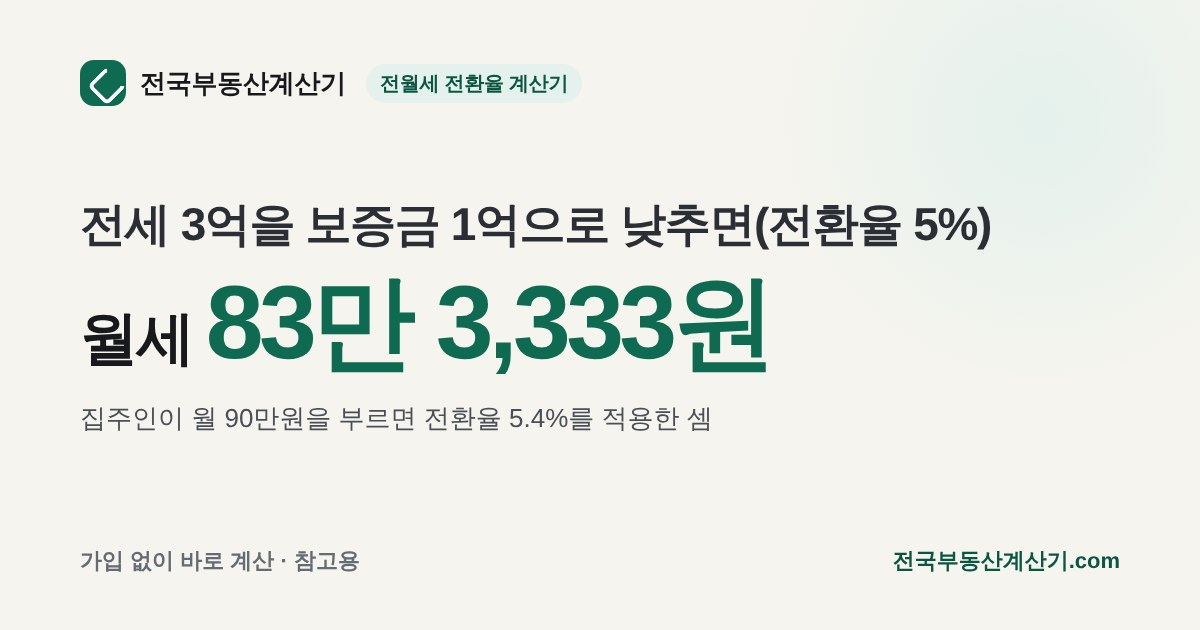
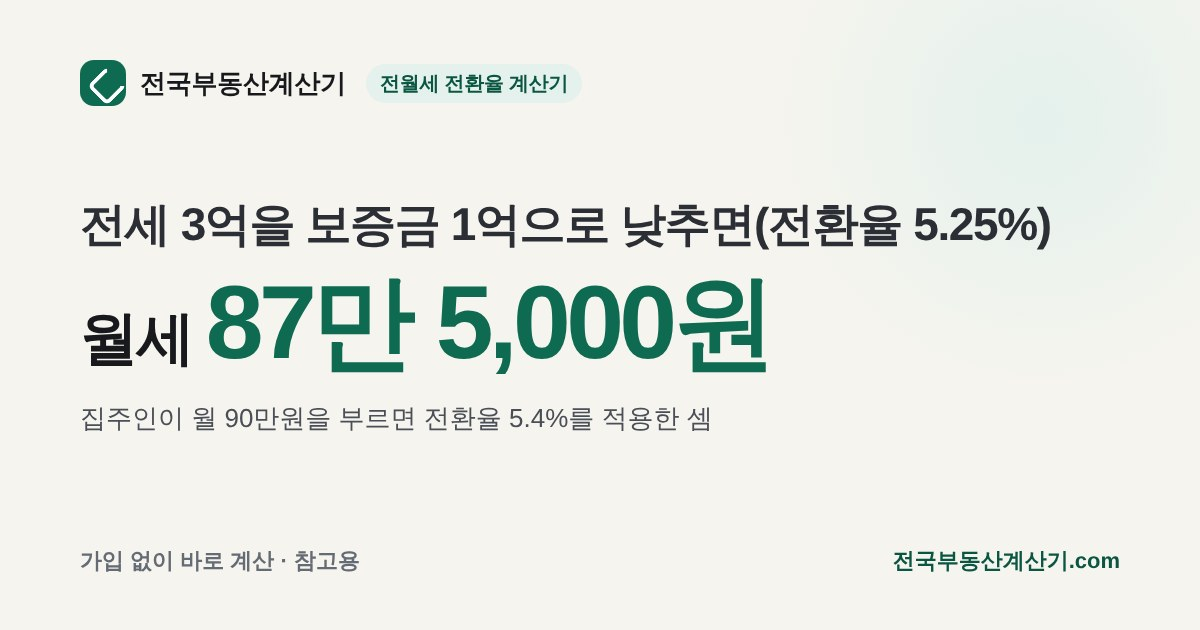
기준금리 3.25% 반영 (2026-11-26 금통위 0.25%p 인상) (#85)
- RATE_HISTORY에 2026-11-26 3.25% 추가, 확인 기준 2026년 11월
- 빌드가 주입하는 곳이 따라 바뀜: 전환율·갱신 계산기 기본값(전환율 상한 5.25%),
  홈 「지금 적용 중인 기준」, 기준금리 이력, 안내 글 3편의 「지금 기준금리」 문장
- 기준금리 글의 전환율 표와 전환율 계산기 공유 카드를 지금 금리에서 계산하도록
  바꿈(site_core.conv_monthly). 고정값이라 옛 금리 기준으로 남아 있었음
- verify: 「기준금리 3%면」으로 적은 용어 예시는 기준금리 칸을 3으로 두고 대조
- CLAUDE.md 금통위 일정 갱신(다음 회의 2027-01-14)

Claude-Session: https://claude.ai/code/session_01TMefYjMG8NRbFFfHiiLdhM

Changed region(s): [[0.37, 0.4524, 0.5858, 0.573], [0.7708, 0.3317, 0.8942, 0.3921], [0.2158, 0.4524, 0.2775, 0.573]]

diff --git a/sw.js b/sw.js
@@ -1,6 +1,6 @@
 /* 전국부동산계산기 서비스 워커: 정적 자산은 캐시 우선, HTML은 네트워크 우선(오프라인 시 캐시) */
-var VERSION = 'jipcalc-30e10ef51c';
-var ASSETS = ["css/site.css?v=1271c1e2", "js/common.js?v=6a725983", "js/analytics.js?v=c8407f74", "js/forms.js?v=59493806", "js/home.js?v=c7629d24", "favicon.svg", "apple-touch-icon.png", "icon-192.png", "icon-512.png", "manifest.json", "js/rent.js?v=8863bc2b", "js/loan.js?v=ff24fef5", "js/yield.js?v=33d61741", "js/fee.js?v=589b4273", "js/area.js?v=78b1a0c5", "js/conversion.js?v=34c85c8d", "js/subscription.js?v=0989644b", "js/rent-tax-credit.js?v=edbace45", "js/dsr.js?v=911198ae", "js/prepayment.js?v=d14f5a96", "js/acquisition-tax.js?v=9f95e47c", "js/capital-gains-tax.js?v=3cf58181", "js/renewal.js?v=3038fa7c", "js/tax-calendar.js?v=f70d9b6a", "js/moving.js?v=396f06dd", "js/rate-compare.js?v=5f1f6692", "js/buy-vs-rent.js?v=e228a501", "js/jeonse-insurance.js?v=74b6a820", "js/jeonse-fraud-check.js?v=381dcd0e", "js/salary.js?v=9aae0658", "js/severance.js?v=5f4bd06e", "js/property-tax.js?v=e8141623", "js/comprehensive-property-tax.js?v=749a724a", "js/gift-tax.js?v=0a729742", "js/inheritance-tax.js?v=4d7dd1e8", "js/jeonse-loan.js?v=4e83a61d", "js/savings.js?v=f8af8e1d", "js/unemployment-benefit.js?v=90e2f8b5", "js/hourly-wage.js?v=fa703e85", "js/year-end-tax.js?v=90585b10", "js/registration-cost.js?v=4cd814cc", "js/pension-tax-credit.js?v=d901305b", "js/parental-leave.js?v=aca1b002", "js/annual-leave.js?v=e7698801", "js/rental-income-tax.js?v=4826b168", "js/income-tax.js?v=b847ecca", "js/land-multiple.js?v=006621bc", "js/land-index-data.js?v=63e87fcd", "js/price-index.js?v=e38c9e86", "js/apartment-multiple.js?v=4472d0bf", "js/apt-index-data.js?v=db486018", "rent.html", "conversion.html", "rent-tax-credit.html", "fee.html", "loan.html", "dsr.html", "prepayment.html", "acquisition-tax.html", "capital-gains-tax.html", "yield.html", "subscription.html", "area.html", "renewal.html", "jeonse-insurance.html", "jeonse-fraud-check.html", "moving.html", "rate-compare.html", "buy-vs-rent.html", "tax-calendar.html", "property-tax.html", "comprehensive-property-tax.html", "gift-tax.html", "salary.html", "severance.html", "inheritance-tax.html", "jeonse-loan.html", "savings.html", "unemployment-benefit.html", "hourly-wage.html", "year-end-tax.html", "registration-cost.html", "pension-tax-credit.html", "parental-leave.html", "annual-leave.html", "rental-income-tax.html", "income-tax.html", "land-multiple.html", "apartment-multiple.html", "checklist.html", "policy.html", "guides.html", "tables.html", "forms.html", "refs.html", "guide-repayment.html", "guide-brokerage.html", "guide-conversion.html", "guide-jeonse-vs-monthly.html", "guide-acquisition-tax.html", "guide-cgt-exemption.html", "guide-subscription-points.html", "guide-dsr-ltv.html", "guide-salary-net.html", "guide-severance.html", "guide-jeonse-registry.html", "guide-renewal-refusal.html", "guide-jeonse-insurance-fail.html", "guide-area-84.html", "guide-rent-tax-credit-who.html", "guide-fixed-vs-variable.html", "guide-loan-rate-structure.html", "guide-officetel.html", "guide-property-tax.html", "guide-prepayment.html", "guide-moving-14days.html", "guide-yield-vacancy.html", "guide-buy-vs-rent.html", "guide-deposit-vs-rent.html", "guide-subscription-notice-date.html", "guide-cgt-heavy.html", "guide-severance-tax.html", "guide-buying-costs.html", "guide-mortgage-limit.html", "guide-cgt-high-price.html", "guide-base-rate-change.html", "guide-deposit-return.html", "guide-renewal-rent-increase.html", "guide-rent-credit-refund.html", "guide-acquisition-6-9.html", "guide-salary-raise.html", "guide-refinance.html", "guide-temporary-two-homes.html", "guide-jeonse-ratio.html", "guide-cgt-filing.html", "guide-jongbuse-threshold.html", "guide-year-end-december.html", "guide-gift-vs-inheritance.html", "guide-savings-real-rate.html", "guide-jeonse-loan-vs-rent.html", "guide-self-registration.html", "guide-annual-leave-pay.html", "guide-minimum-wage-2027.html", "guide-rental-income-two-homes.html", "guide-parental-leave-pay.html", "guide-unemployment-floor.html", "guide-mixed-use-acquisition.html", "guide-renewal-family.html", "guide-year-end-dependents.html", "guide-year-end-result.html", "guide-freelancer-refund.html", "guide-year-end-medical.html", "guide-year-end-job-change.html", "guide-gift-tax-free.html", "guide-jongbuse-payment.html", "guide-apartment-multiple.html", "guide-land-price-lookup.html", "guide-inheritance-threshold.html", "guide-deposit-100m.html", "guide-seoul-apartment-gu.html", "guide-land-index-sido.html", "guide-apartment-vs-land.html", "guide-real-price-multiple.html", "guide-salary-table.html", "guide-subscription-deduction.html", "guide-first-home-acquisition.html", "guide-subscription-first-rank.html", "guide-rent-report.html", "guide-pension-tax-credit.html", "guide-property-tax-table.html", "guide-loan-30-vs-40.html", "guide-annual-leave-days.html", "guide-weekly-holiday-pay.html", "guide-loan-100m-interest.html", "guide-card-deduction.html", "guide-family-loan.html", "guide-jeonse-deemed-rent.html", "guide-severance-table.html", "guide-unemployment-days.html", "guide-hourly-wage-table.html", "guide-year-end-education.html", "guide-income-tax-brackets.html", "guide-loan-interest-by-amount.html", "guide-savings-monthly-table.html", "guide-jeonse-loan-interest.html", "guide-second-home-acquisition.html", "guide-long-term-deduction.html", "guide-gyeonggi-apartment.html", "guide-monthly-to-hourly.html", "guide-deposit-interest-table.html", "guide-credit-loan-mortgage-limit.html", "guide-yield-leverage.html", "guide-one-home-rental-tax.html", "guide-inheritance-spouse.html", "guide-subscription-points-examples.html", "guide-buy-vs-rent-by-price.html", "about.html", "privacy.html", "terms.html", "table-acquisition-tax.html", "table-capital-gains-tax.html", "table-brokerage-fee.html", "table-subscription-points.html", "base-rate-history.html", "form-rent-receipt.html", "form-notice.html", "form-special-terms.html", "glossary.html", "index.html", "404.html"];
+var VERSION = 'jipcalc-87db7142ac';
+var ASSETS = ["css/site.css?v=1271c1e2", "js/common.js?v=6a725983", "js/analytics.js?v=c8407f74", "js/forms.js?v=59493806", "js/home.js?v=c7629d24", "favicon.svg", "apple-touch-icon.png", "icon-192.png", "icon-512.png", "manifest.json", "js/rent.js?v=8863bc2b", "js/loan.js?v=ff24fef5", "js/yield.js?v=33d61741", "js/fee.js?v=589b4273", "js/area.js?v=78b1a0c5", "js/conversion.js?v=ae12cb14", "js/subscription.js?v=0989644b", "js/rent-tax-credit.js?v=edbace45", "js/dsr.js?v=911198ae", "js/prepayment.js?v=d14f5a96", "js/acquisition-tax.js?v=9f95e47c", "js/capital-gains-tax.js?v=3cf58181", "js/renewal.js?v=490cc2ee", "js/tax-calendar.js?v=f70d9b6a", "js/moving.js?v=396f06dd", "js/rate-compare.js?v=5f1f6692", "js/buy-vs-rent.js?v=e228a501", "js/jeonse-insurance.js?v=74b6a820", "js/jeonse-fraud-check.js?v=381dcd0e", "js/salary.js?v=9aae0658", "js/severance.js?v=5f4bd06e", "js/property-tax.js?v=e8141623", "js/comprehensive-property-tax.js?v=749a724a", "js/gift-tax.js?v=0a729742", "js/inheritance-tax.js?v=4d7dd1e8", "js/jeonse-loan.js?v=4e83a61d", "js/savings.js?v=f8af8e1d", "js/unemployment-benefit.js?v=90e2f8b5", "js/hourly-wage.js?v=fa703e85", "js/year-end-tax.js?v=90585b10", "js/registration-cost.js?v=4cd814cc", "js/pension-tax-credit.js?v=d901305b", "js/parental-leave.js?v=aca1b002", "js/annual-leave.js?v=e7698801", "js/rental-income-tax.js?v=4826b168", "js/income-tax.js?v=b847ecca", "js/land-multiple.js?v=006621bc", "js/land-index-data.js?v=63e87fcd", "js/price-index.js?v=e38c9e86", "js/apartment-multiple.js?v=4472d0bf", "js/apt-index-data.js?v=db486018", "rent.html", "conversion.html", "rent-tax-credit.html", "fee.html", "loan.html", "dsr.html", "prepayment.html", "acquisition-tax.html", "capital-gains-tax.html", "yield.html", "subscription.html", "area.html", "renewal.html", "jeonse-insurance.html", "jeonse-fraud-check.html", "moving.html", "rate-compare.html", "buy-vs-rent.html", "tax-calendar.html", "property-tax.html", "comprehensive-property-tax.html", "gift-tax.html", "salary.html", "severance.html", "inheritance-tax.html", "jeonse-loan.html", "savings.html", "unemployment-benefit.html", "hourly-wage.html", "year-end-tax.html", "registration-cost.html", "pension-tax-credit.html", "parental-leave.html", "annual-leave.html", "rental-income-tax.html", "income-tax.html", "land-multiple.html", "apartment-multiple.html", "checklist.html", "policy.html", "guides.html", "tables.html", "forms.html", "refs.html", "guide-repayment.html", "guide-brokerage.html", "guide-conversion.html", "guide-jeonse-vs-monthly.html", "guide-acquisition-tax.html", "guide-cgt-exemption.html", "guide-subscription-points.html", "guide-dsr-ltv.html", "guide-salary-net.html", "guide-severance.html", "guide-jeonse-registry.html", "guide-renewal-refusal.html", "guide-jeonse-insurance-fail.html", "guide-area-84.html", "guide-rent-tax-credit-who.html", "guide-fixed-vs-variable.html", "guide-loan-rate-structure.html", "guide-officetel.html", "guide-property-tax.html", "guide-prepayment.html", "guide-moving-14days.html", "guide-yield-vacancy.html", "guide-buy-vs-rent.html", "guide-deposit-vs-rent.html", "guide-subscription-notice-date.html", "guide-cgt-heavy.html", "guide-severance-tax.html", "guide-buying-costs.html", "guide-mortgage-limit.html", "guide-cgt-high-price.html", "guide-base-rate-change.html", "guide-deposit-return.html", "guide-renewal-rent-increase.html", "guide-rent-credit-refund.html", "guide-acquisition-6-9.html", "guide-salary-raise.html", "guide-refinance.html", "guide-temporary-two-homes.html", "guide-jeonse-ratio.html", "guide-cgt-filing.html", "guide-jongbuse-threshold.html", "guide-year-end-december.html", "guide-gift-vs-inheritance.html", "guide-savings-real-rate.html", "guide-jeonse-loan-vs-rent.html", "guide-self-registration.html", "guide-annual-leave-pay.html", "guide-minimum-wage-2027.html", "guide-rental-income-two-homes.html", "guide-parental-leave-pay.html", "guide-unemployment-floor.html", "guide-mixed-use-acquisition.html", "guide-renewal-family.html", "guide-year-end-dependents.html", "guide-year-end-result.html", "guide-freelancer-refund.html", "guide-year-end-medical.html", "guide-year-end-job-change.html", "guide-gift-tax-free.html", "guide-jongbuse-payment.html", "guide-apartment-multiple.html", "guide-land-price-lookup.html", "guide-inheritance-threshold.html", "guide-deposit-100m.html", "guide-seoul-apartment-gu.html", "guide-land-index-sido.html", "guide-apartment-vs-land.html", "guide-real-price-multiple.html", "guide-salary-table.html", "guide-subscription-deduction.html", "guide-first-home-acquisition.html", "guide-subscription-first-rank.html", "guide-rent-report.html", "guide-pension-tax-credit.html", "guide-property-tax-table.html", "guide-loan-30-vs-40.html", "guide-annual-leave-days.html", "guide-weekly-holiday-pay.html", "guide-loan-100m-interest.html", "guide-card-deduction.html", "guide-family-loan.html", "guide-jeonse-deemed-rent.html", "guide-severance-table.html", "guide-unemployment-days.html", "guide-hourly-wage-table.html", "guide-year-end-education.html", "guide-income-tax-brackets.html", "guide-loan-interest-by-amount.html", "guide-savings-monthly-table.html", "guide-jeonse-loan-interest.html", "guide-second-home-acquisition.html", "guide-long-term-deduction.html", "guide-gyeonggi-apartment.html", "guide-monthly-to-hourly.html", "guide-deposit-interest-table.html", "guide-credit-loan-mortgage-limit.html", "guide-yield-leverage.html", "guide-one-home-rental-tax.html", "guide-inheritance-spouse.html", "guide-subscription-points-examples.html", "guide-buy-vs-rent-by-price.html", "about.html", "privacy.html", "terms.html", "table-acquisition-tax.html", "table-capital-gains-tax.html", "table-brokerage-fee.html", "table-subscription-points.html", "base-rate-history.html", "form-rent-receipt.html", "form-notice.html", "form-special-terms.html", "glossary.html", "index.html", "404.html"];
 self.addEventListener('install', function (e) {
   e.waitUntil(caches.open(VERSION).then(function (c) { return c.addAll(ASSETS.map(function (a) { return new Request(a, { cache: 'reload' }); })).catch(function () {}); }).then(function () { return self.skipWaiting(); }));
 });

diff --git a/base-rate-history.html b/base-rate-history.html
@@ -37,7 +37,7 @@
   "description": "한국은행 기준금리 변동 이력표. 2008년 금융위기 이후 인하, 2021~2023년 인상, 2024~2025년 인하, 2026년 인상까지 결정일별 금리와 변동폭을 정리하고 전월세 전환율과의 관계를 설명합니다.",
   "url": "https://xn--989anm2s84p8on6teba611m.com/base-rate-history.html",
   "inLanguage": "ko-KR",
-  "dateModified": "2026-10-23",
+  "dateModified": "2026-11-28",
   "creator": {
     "@type": "Organization",
     "name": "전국부동산계산기",
@@ -103,14 +103,14 @@
     </section>
 
     <section class="card result-hero">
-      <p class="result-kicker">현재 기준금리 (2026년 10월 확인 기준)</p>
-      <p class="result-big"><span>3.00</span><span class="won">%</span></p>
-      <div class="stat-row"><div class="stat"><p class="k">마지막 변동</p><p class="v"><span>2026-08-27</span></p></div><div class="stat"><p class="k">법정 전월세 전환율</p><p class="v"><span>5.00</span><small>%</small></p></div></div>
-      <p class="result-note">2026년 10월 이후의 금융통화위원회 결정은 <a href="https://www.bok.or.kr" target="_blank" rel="noopener">한국은행</a>에서 확인하세요. 이 표는 확인 시점 이후 자동으로 갱신되지 않습니다.</p>
+      <p class="result-kicker">현재 기준금리 (2026년 11월 확인 기준)</p>
+      <p class="result-big"><span>3.25</span><span class="won">%</span></p>
+      <div class="stat-row"><div class="stat"><p class="k">마지막 변동</p><p class="v"><span>2026-11-26</span></p></div><div class="stat"><p class="k">법정 전월세 전환율</p><p class="v"><span>5.25</span><small>%</small></p></div></div>
+      <p class="result-note">2026년 11월 이후의 금융통화위원회 결정은 <a href="https://www.bok.or.kr" target="_blank" rel="noopener">한국은행</a>에서 확인하세요. 이 표는 확인 시점 이후 자동으로 갱신되지 않습니다.</p>
     </section>
     <section class="card">
       <h2>변동 이력 (최근순)</h2>
-      <div class="table-wrap"><table class="tbl dense nowrap-head"><thead><tr><th scope="col">결정일</th><th scope="col">기준금리</th><th scope="col">변동</th><th scope="col">법정 전환율 (기준금리+2%p)</th></tr></thead><tbody><tr><th scope="row">2026-08-27</th><td>3.00%</td><td>+0.25%p</td><td>5.00%</td></tr><tr><th scope="row">2026-07-16</th><td>2.75%</td><td>+0.25%p</td><td>4.75%</td></tr><tr><th scope="row">2025-05-29</th><td>2.50%</td><td>-0.25%p</td><td>4.50%</td></tr><tr><th scope="row">2025-02-25</th><td>2.75%</td><td>-0.25%p</td><td>4.75%</td></tr><tr><th scope="row">2024-11-28</th><td>3.00%</td><td>-0.25%p</td><td>5.00%</td></tr><tr><th scope="row">2024-10-11</th><td>3.25%</td><td>-0.25%p</td><td>5.25%</td></tr><tr><th scope="row">2023-01-13</th><td>3.50%</td><td>+0.25%p</td><td>5.50%</td></tr><tr><th scope="row">2022-11-24</th><td>3.25%</td><td>+0.25%p</td><td>5.25%</td></tr><tr><th scope="row">2022-10-12</th><td>3.00%</td><td>+0.50%p</td><td>5.00%</td></tr><tr><th scope="row">2022-08-25</th><td>2.50%</td><td>+0.25%p</td><td>4.50%</td></tr><tr><th scope="row">2022-07-13</th><td>2.25%</td><td>+0.50%p</td><td>4.25%</td></tr><tr><th scope="row">2022-05-26</th><td>1.75%</td><td>+0.25%p</td><td>3.75%</td></tr><tr><th scope="row">2022-04-14</th><td>1.50%</td><td>+0.25%p</td><td>3.50%</td></tr><tr><th scope="row">2022-01-14</th><td>1.25%</td><td>+0.25%p</td><td>3.25%</td></tr><tr><th scope="row">2021-11-25</th><td>1.00%</td><td>+0.25%p</td><td>3.00%</td></tr><tr><th scope="row">2021-08-26</th><td>0.75%</td><td>+0.25%p</td><td>2.75%</td></tr><tr><th scope="row">2020-05-28</th><td>0.50%</td><td>-0.25%p</td><td>2.50%</td></tr><tr><th scope="row">2020-03-17</th><td>0.75%</td><td>-0.50%p</td><td>2.75%</td></tr><tr><th scope="row">2019-10-16</th><td>1.25%</td><td>-0.25%p</td><td>3.25%</td></tr><tr><th scope="row">2019-07-18</th><td>1.50%</td><td>-0.25%p</td><td>3.50%</td></tr><tr><th scope="row">2018-11-30</th><td>1.75%</td><td>+0.25%p</td><td>3.75%</td></tr><tr><th scope="row">2017-11-30</th><td>1.50%</td><td>+0.25%p</td><td>3.50%</td></tr><tr><th scope="row">2016-06-09</th><td>1.25%</td><td>-0.25%p</td><td>3.25%</td></tr><tr><th scope="row">2015-06-11</th><td>1.50%</td><td>-0.25%p</td><td>3.50%</td></tr><tr><th scope="row">2015-03-12</th><td>1.75%</td><td>-0.25%p</td><td>3.75%</td></tr><tr><th scope="row">2014-10-15</th><td>2.00%</td><td>-0.25%p</td><td>4.00%</td></tr><tr><th scope="row">2014-08-14</th><td>2.25%</td><td>-0.25%p</td><td>4.25%</td></tr><tr><th scope="row">2013-05-09</th><td>2.50%</td><td>-0.25%p</td><td>4.50%</td></tr><tr><th scope="row">2012-10-11</th><td>2.75%</td><td>-0.25%p</td><td>4.75%</td></tr><tr><th scope="row">2012-07-12</th><td>3.00%</td><td>-0.25%p</td><td>5.00%</td></tr><tr><th scope="row">2011-06-10</th><td>3.25%</td><td>+0.25%p</td><td>5.25%</td></tr><tr><th scope="row">2011-03-10</th><td>3.00%</td><td>+0.25%p</td><td>5.00%</td></tr><tr><th scope="row">2011-01-13</th><td>2.75%</td><td>+0.25%p</td><td>4.75%</td></tr><tr><th scope="row">2010-11-16</th><td>2.50%</td><td>+0.25%p</td><td>4.50%</td></tr><tr><th scope="row">2010-07-09</th><td>2.25%</td><td>+0.25%p</td><td>4.25%</td></tr><tr><th scope="row">2009-02-12</th><td>2.00%</td><td>-0.50%p</td><td>4.00%</td></tr><tr><th scope="row">2009-01-09</th><td>2.50%</td><td>-0.50%p</td><td>4.50%</td></tr><tr><th scope="row">2008-12-11</th><td>3.00%</td><td>-1.00%p</td><td>5.00%</td></tr><tr><th scope="row">2008-11-07</th><td>4.00%</td><td>-0.25%p</td><td>6.00%</td></tr><tr><th scope="row">2008-10-27</th><td>4.25%</td><td>-0.75%p</td><td>6.25%</td></tr><tr><th scope="row">2008-10-09</th><td>5.00%</td><td>-0.25%p</td><td>7.00%</td></tr></tbody></table></div>
+      <div class="table-wrap"><table class="tbl dense nowrap-head"><thead><tr><th scope="col">결정일</th><th scope="col">기준금리</th><th scope="col">변동</th><th scope="col">법정 전환율 (기준금리+2%p)</th></tr></thead><tbody><tr><th scope="row">2026-11-26</th><td>3.25%</td><td>+0.25%p</td><td>5.25%</td></tr><tr><th scope="row">2026-08-27</th><td>3.00%</td><td>+0.25%p</td><td>5.00%</td></tr><tr><th scope="row">2026-07-16</th><td>2.75%</td><td>+0.25%p</td><td>4.75%</td></tr><tr><th scope="row">2025-05-29</th><td>2.50%</td><td>-0.25%p</td><td>4.50%</td></tr><tr><th scope="row">2025-02-25</th><td>2.75%</td><td>-0.25%p</td><td>4.75%</td></tr><tr><th scope="row">2024-11-28</th><td>3.00%</td><td>-0.25%p</td><td>5.00%</td></tr><tr><th scope="row">2024-10-11</th><td>3.25%</td><td>-0.25%p</td><td>5.25%</td></tr><tr><th scope="row">2023-01-13</th><td>3.50%</td><td>+0.25%p</td><td>5.50%</td></tr><tr><th scope="row">2022-11-24</th><td>3.25%</td><td>+0.25%p</td><td>5.25%</td></tr><tr><th scope="row">2022-10-12</th><td>3.00%</td><td>+0.50%p</td><td>5.00%</td></tr><tr><th scope="row">2022-08-25</th><td>2.50%</td><td>+0.25%p</td><td>4.50%</td></tr><tr><th scope="row">2022-07-13</th><td>2.25%</td><td>+0.50%p</td><td>4.25%</td></tr><tr><th scope="row">2022-05-26</th><td>1.75%</td><td>+0.25%p</td><td>3.75%</td></tr><tr><th scope="row">2022-04-14</th><td>1.50%</td><td>+0.25%p</td><td>3.50%</td></tr><tr><th scope="row">2022-01-14</th><td>1.25%</td><td>+0.25%p</td><td>3.25%</td></tr><tr><th scope="row">2021-11-25</th><td>1.00%</td><td>+0.25%p</td><td>3.00%</td></tr><tr><th scope="row">2021-08-26</th><td>0.75%</td><td>+0.25%p</td><td>2.75%</td></tr><tr><th scope="row">2020-05-28</th><td>0.50%</td><td>-0.25%p</td><td>2.50%</td></tr><tr><th scope="row">2020-03-17</th><td>0.75%</td><td>-0.50%p</td><td>2.75%</td></tr><tr><th scope="row">2019-10-16</th><td>1.25%</td><td>-0.25%p</td><td>3.25%</td></tr><tr><th scope="row">2019-07-18</th><td>1.50%</td><td>-0.25%p</td><td>3.50%</td></tr><tr><th scope="row">2018-11-30</th><td>1.75%</td><td>+0.25%p</td><td>3.75%</td></tr><tr><th scope="row">2017-11-30</th><td>1.50%</td><td>+0.25%p</td><td>3.50%</td></tr><tr><th scope="row">2016-06-09</th><td>1.25%</td><td>-0.25%p</td><td>3.25%</td></tr><tr><th scope="row">2015-06-11</th><td>1.50%</td><td>-0.25%p</td><td>3.50%</td></tr><tr><th scope="row">2015-03-12</th><td>1.75%</td><td>-0.25%p</td><td>3.75%</td></tr><tr><th scope="row">2014-10-15</th><td>2.00%</td><td>-0.25%p</td><td>4.00%</td></tr><tr><th scope="row">2014-08-14</th><td>2.25%</td><td>-0.25%p</td><td>4.25%</td></tr><tr><th scope="row">2013-05-09</th><td>2.50%</td><td>-0.25%p</td><td>4.50%</td></tr><tr><th scope="row">2012-10-11</th><td>2.75%</td><td>-0.25%p</td><td>4.75%</td></tr><tr><th scope="row">2012-07-12</th><td>3.00%</td><td>-0.25%p</td><td>5.00%</td></tr><tr><th scope="row">2011-06-10</th><td>3.25%</td><td>+0.25%p</td><td>5.25%</td></tr><tr><th scope="row">2011-03-10</th><td>3.00%</td><td>+0.25%p</td><td>5.00%</td></tr><tr><th scope="row">2011-01-13</th><td>2.75%</td><td>+0.25%p</td><td>4.75%</td></tr><tr><th scope="row">2010-11-16</th><td>2.50%</td><td>+0.25%p</td><td>4.50%</td></tr><tr><th scope="row">2010-07-09</th><td>2.25%</td><td>+0.25%p</td><td>4.25%</td></tr><tr><th scope="row">2009-02-12</th><td>2.00%</td><td>-0.50%p</td><td>4.00%</td></tr><tr><th scope="row">2009-01-09</th><td>2.50%</td><td>-0.50%p</td><td>4.50%</td></tr><tr><th scope="row">2008-12-11</th><td>3.00%</td><td>-1.00%p</td><td>5.00%</td></tr><tr><th scope="row">2008-11-07</th><td>4.00%</td><td>-0.25%p</td><td>6.00%</td></tr><tr><th scope="row">2008-10-27</th><td>4.25%</td><td>-0.75%p</td><td>6.25%</td></tr><tr><th scope="row">2008-10-09</th><td>5.00%</td><td>-0.25%p</td><td>7.00%</td></tr></tbody></table></div>
       <p class="result-note">2008년 3월 기준금리 제도 개편 이후. 동결 결정은 표시하지 않았습니다.</p>
     </section>
     <section class="card">

diff --git a/guide-base-rate-change.html b/guide-base-rate-change.html
@@ -37,7 +37,7 @@
   "description": "기준금리가 0.25%p 움직이면 3억원 30년 대출의 월 상환액은 약 4만 3천원, 대출 한도는 약 700만원대, 2억원 전월세 전환 월세 상한은 4만 1,667원씩 달라집니다. 대출금리가 바로 바뀌지 않는 이유와 함께 계산기로 정리했습니다.",
   "url": "https://xn--989anm2s84p8on6teba611m.com/guide-base-rate-change.html",
   "datePublished": "2026-10-21",
-  "dateModified": "2026-10-23",
+  "dateModified": "2026-11-28",
   "inLanguage": "ko-KR",
   "author": {
     "@type": "Organization",
@@ -104,8 +104,8 @@
       <section class="hero">
         <div class="hero-top"><nav class="crumbs" aria-label="현재 위치"><a href="index.html">홈</a><span class="sep" aria-hidden="true">›</span><a href="guides.html">안내 글</a><span class="sep" aria-hidden="true">›</span><a href="guides.html#t-loan">대출</a></nav></div>
         <h1>기준금리 0.25%p, 내 대출 이자는 얼마나 바뀌나</h1>
-        <p class="lead">기준금리 3.00%에서 0.25%포인트가 움직일 때 내 대출 월 상환액, 대출 한도, 전월세 전환율 상한이 얼마씩 바뀌는지 계산기로 확인합니다.</p>
-        <p class="meta">전국부동산계산기 · 2026.10.21 · 수정 2026.10.23 · 참고용 설명이며 금융·세무·법률 자문이 아닙니다</p>
+        <p class="lead">기준금리 3.25%에서 0.25%포인트가 움직일 때 내 대출 월 상환액, 대출 한도, 전월세 전환율 상한이 얼마씩 바뀌는지 계산기로 확인합니다.</p>
+        <p class="meta">전국부동산계산기 · 2026.10.21 · 수정 2026.11.28 · 참고용 설명이며 금융·세무·법률 자문이 아닙니다</p>
       </section>
       <section class="keynums" aria-label="핵심 숫자"><div class="kn-grid"><div class="kn"><p class="v">약 4만 3천원</p><p class="k">3억원 · 30년 · 4%에서 0.25%p당 월 상환액</p></div><div class="kn"><p class="v">1,500만원</p><p class="k">0.25%p가 바꾸는 30년 총이자(넘음)</p></div><div class="kn"><p class="v">143만 2,246원</p><p class="k">3억원 · 연 4% · 30년 월 상환액</p></div></div>
         <a class="kn-cta" href="loan.html">대출이자 계산기 열기 →</a>
@@ -116,7 +116,7 @@
       </details>
       <section class="card">
         <div class="prose">
-<p>한국은행 기준금리는 지금 <strong>3.00%</strong>(2026년 8월 27일 결정)입니다. 금융통화위원회는 1년에 8번 기준금리를 정하고, 바꿀 때는 보통 0.25%포인트씩 움직입니다. 그 0.25%포인트가 내 대출과 월세에 얼마로 바뀌는지 계산기로 확인했습니다.</p>
+<p>한국은행 기준금리는 지금 <strong>3.25%</strong>(2026년 11월 26일 결정)입니다. 금융통화위원회는 1년에 8번 기준금리를 정하고, 바꿀 때는 보통 0.25%포인트씩 움직입니다. 그 0.25%포인트가 내 대출과 월세에 얼마로 바뀌는지 계산기로 확인했습니다.</p>
 <h2 id="s-1">대출금리가 0.25%p 바뀌면</h2>
 <p>30년 원리금균등 대출에서 금리가 연 4%일 때의 월 상환액과, 금리가 0.25%포인트 오르거나 내릴 때 바뀌는 폭입니다(<a href='loan.html'>대출이자 계산기</a>).</p>
 <div class="table-wrap"><table class="tbl"><thead><tr><th scope="col">대출</th><th scope="col">월 상환(4%)</th><th scope="col">0.25%p당</th></tr></thead><tbody><tr><th scope="row">1억원</th><td>47만 7,415원</td><td>약 1만 4천원</td></tr><tr><th scope="row">3억원</th><td>143만 2,246원</td><td>약 4만 3천원</td></tr><tr><th scope="row">5억원</th><td>238만 7,076원</td><td>약 7만 2천원</td></tr></tbody></table></div>
@@ -130,8 +130,8 @@
 <p>DSR은 금리로 계산한 원리금으로 한도를 정하므로 금리가 오르면 한도가 줄어듭니다. 연봉 5,000만원, 30년, 수도권 스트레스 가산 3.0%포인트, DSR 40%에서 금리 4.5%면 2억 3,836만원, 4.75%면 2억 3,264만원(약 572만원 감소), 4.25%면 2억 4,431만원(약 595만원 증가)입니다(<a href='dsr.html'>DSR·LTV 계산기</a>).</p>
 <p>한도는 대출을 실행할 때의 금리로 다시 계산하므로, 상담 때 들은 한도가 실행일에 달라질 수 있습니다. 금리가 움직이는 시기라면 잔금일 전에 한 번 더 확인하세요.</p>
 <h2 id="s-4">세입자에게는 전환율 상한</h2>
-<p>계약 중이나 갱신 때 전세 보증금을 월세로 돌리는 전환율의 상한은 기준금리 + 2%포인트(최대 10%)입니다. 지금 기준금리 3.00%에서 상한은 5%입니다. 기준금리가 0.25%포인트 움직이면 상한도 같이 움직입니다.</p>
-<div class="table-wrap"><table class="tbl"><thead><tr><th scope="col">기준금리</th><th scope="col">전환율 상한</th><th scope="col">2억 전환 시 월세</th></tr></thead><tbody><tr><th scope="row">2.75%</th><td>4.75%</td><td>79만 1,667원</td></tr><tr><th scope="row">3.00%</th><td>5.00%</td><td>83만 3,333원</td></tr><tr><th scope="row">3.25%</th><td>5.25%</td><td>87만 5,000원</td></tr></tbody></table></div>
+<p>계약 중이나 갱신 때 전세 보증금을 월세로 돌리는 전환율의 상한은 기준금리 + 2%포인트(최대 10%)입니다. 지금 기준금리 3.25%에서 상한은 5.25%입니다. 기준금리가 0.25%포인트 움직이면 상한도 같이 움직입니다.</p>
+<div class="table-wrap"><table class="tbl"><thead><tr><th scope="col">기준금리</th><th scope="col">전환율 상한</th><th scope="col">2억 전환 시 월세</th></tr></thead><tbody><tr><th scope="row">3.00%</th><td>5.00%</td><td>83만 3,333원</td></tr><tr><th scope="row">3.25%</th><td>5.25%</td><td>87만 5,000원</td></tr><tr><th scope="row">3.50%</th><td>5.50%</td><td>91만 6,667원</td></tr></tbody></table></div>
 <p>보증금 2억원을 월세로 바꿀 때 상한이 0.25%포인트마다 4만 1,667원씩 달라집니다(<a href='conversion.html'>전월세 전환율 계산기</a>). 이 상한은 계약 중·갱신 때의 전환에 적용되고 새로 맺는 계약에는 강제되지 않습니다. 자세한 내용은 <a href='guide-conversion.html'>전월세 전환율 안내 글</a>에 있습니다.</p>
 <h2 id="s-5">예금 금리와 기회비용</h2>
 <p>기준금리가 움직이면 예금 금리도 따라 움직입니다. 전세와 월세를 비교할 때 보증금의 기회비용으로 쓰는 금리가 바뀌는 셈이라, 같은 집도 금리에 따라 어느 쪽 월 부담이 적은지가 달라질 수 있습니다. <a href='rent.html'>월세 실부담 계산기</a>의 금리 칸에 지금 예금 금리를 넣어 다시 비교해 보세요. 금리별 예시는 <a href='guide-jeonse-vs-monthly.html'>전세와 월세 비교 글</a>에 있습니다.</p>

diff --git a/guide-conversion.html b/guide-conversion.html
@@ -37,7 +37,7 @@
   "description": "전월세 전환율의 뜻, 법정 전환율이 적용되는 경우와 아닌 경우, 시장 전환율과의 차이, 전세와 월세 중 무엇이 나은지 판단하는 기준을 설명합니다.",
   "url": "https://xn--989anm2s84p8on6teba611m.com/guide-conversion.html",
   "datePublished": "2026-09-17",
-  "dateModified": "2026-10-06",
+  "dateModified": "2026-11-28",
   "inLanguage": "ko-KR",
   "author": {
     "@type": "Organization",
@@ -105,7 +105,7 @@
         <div class="hero-top"><nav class="crumbs" aria-label="현재 위치"><a href="index.html">홈</a><span class="sep" aria-hidden="true">›</span><a href="guides.html">안내 글</a><span class="sep" aria-hidden="true">›</span><a href="guides.html#t-rent">전세·월세</a></nav></div>
         <h1>전월세 전환율, 어디에 쓰는 숫자인가</h1>
         <p class="lead">집주인이 제시한 월세가 적정한지 판단하는 기준입니다. 법정 상한이 적용되는 경우와 아닌 경우를 구분합니다.</p>
-        <p class="meta">전국부동산계산기 · 2026.09.17 · 수정 2026.10.06 · 참고용 설명이며 금융·세무·법률 자문이 아닙니다</p>
+        <p class="meta">전국부동산계산기 · 2026.09.17 · 수정 2026.11.28 · 참고용 설명이며 금융·세무·법률 자문이 아닙니다</p>
       </section>
       <section class="keynums" aria-label="핵심 숫자"><div class="kn-grid"><div class="kn"><p class="v">83만 3,333원</p><p class="k">보증금 2억원을 전환율 5%로 바꾼 월세</p></div><div class="kn"><p class="v">5.4%</p><p class="k">같은 2억원에 월 90만원을 요구할 때의 전환율</p></div><div class="kn"><p class="v">16만 6,667원</p><p class="k">전환율 1%포인트가 바꾸는 월세(2억원)</p></div></div>
         <a class="kn-cta" href="conversion.html">전월세 전환율 계산기 열기 →</a>
@@ -123,7 +123,7 @@
 <div class="table-wrap"><table class="tbl"><thead><tr><th scope="col">남기는 보증금</th><th scope="col">전환율 5%</th><th scope="col">전환율 6%</th></tr></thead><tbody><tr><th scope="row">2억 5,000만원</th><td>208,333원</td><td>250,000원</td></tr><tr><th scope="row">2억원</th><td>416,667원</td><td>500,000원</td></tr><tr><th scope="row">1억원</th><td>833,333원</td><td>1,000,000원</td></tr><tr><th scope="row">0원</th><td>1,250,000원</td><td>1,500,000원</td></tr></tbody></table></div>
 <p>전환율이 1%포인트 다르면 2억을 바꿀 때 월세가 16만 6,667원 달라집니다. 작아 보이는 비율 차이가 2년이면 400만원입니다.</p>
 <h2 id="s-2">법정 전환율</h2>
-<p>주택임대차보호법은 전환율에 상한을 둡니다. 연 10%와 한국은행 기준금리에 2%포인트를 더한 값 중 낮은 쪽입니다. 지금 기준금리는 3.00%(2026년 8월 27일 결정)라 상한은 5%입니다.</p>
+<p>주택임대차보호법은 전환율에 상한을 둡니다. 연 10%와 한국은행 기준금리에 2%포인트를 더한 값 중 낮은 쪽입니다. 지금 기준금리는 3.25%(2026년 11월 26일 결정)라 상한은 5.25%입니다.</p>
 <div class="table-wrap"><table class="tbl"><thead><tr><th scope="col">기준금리</th><th scope="col">상한</th><th scope="col">2억 전환 시 월세</th></tr></thead><tbody><tr><th scope="row">2.50%</th><td>4.5%</td><td>750,000원</td></tr><tr><th scope="row">3.00%</th><td>5.0%</td><td>833,333원</td></tr><tr><th scope="row">3.50%</th><td>5.5%</td><td>916,667원</td></tr></tbody></table></div>
 <p>기준금리가 0.25%포인트 바뀌면 상한도 같이 움직이고, 2억을 전환할 때 월세 상한은 4만 1,667원 달라집니다. 기준금리는 금융통화위원회가 1년에 8번 정하며, 지난 변동은 <a href='base-rate-history.html'>기준금리 변동 이력</a>에서 볼 수 있습니다.</p>
 <p>중요한 점은 <strong>적용 범위</strong>입니다. 이 상한은 계약 기간 중이거나 계약을 갱신하면서 전세를 월세로 바꿀 때 적용됩니다. 위 예시처럼 갱신하며 90만원(5.4%)을 요구하면, 기준금리 3%일 때는 상한 83만 3,333원을 넘는 6만 6,667원이 무효입니다. 기준금리 3.5%일 때라면 상한 91만 6,667원 안이라 그대로 유효합니다.</p>

diff --git a/guide-renewal-rent-increase.html b/guide-renewal-rent-increase.html
@@ -37,7 +37,7 @@
   "description": "계약갱신요구권으로 갱신할 때 보증금과 월세를 섞어 올리면 전환율로 보증금 환산해 5% 상한과 비교합니다. 전세 3억원이면 월세 6만 2,500원까지, 보증금 2억원·월세 50만원이면 월세 56만 6,666원까지가 상한 안인 계산과 상한이 적용되지 않는 경우를 정리했습니다.",
   "url": "https://xn--989anm2s84p8on6teba611m.com/guide-renewal-rent-increase.html",
   "datePublished": "2026-10-21",
-  "dateModified": "2026-10-21",
+  "dateModified": "2026-11-28",
   "inLanguage": "ko-KR",
   "author": {
     "@type": "Organization",
@@ -105,7 +105,7 @@
         <div class="hero-top"><nav class="crumbs" aria-label="현재 위치"><a href="index.html">홈</a><span class="sep" aria-hidden="true">›</span><a href="guides.html">안내 글</a><span class="sep" aria-hidden="true">›</span><a href="guides.html#t-rent">전세·월세</a></nav></div>
         <h1>갱신 때 월세로 올리자고 하면, 5% 상한 계산법</h1>
         <p class="lead">갱신 때 보증금과 월세를 섞어서 올리자고 하면 모두 보증금으로 환산해 5% 상한과 비교합니다. 전세 3억원과 보증금 2억원·월세 50만원 계약으로 어디까지가 상한 안인지 계산합니다.</p>
-        <p class="meta">전국부동산계산기 · 2026.10.21 · 참고용 설명이며 금융·세무·법률 자문이 아닙니다</p>
+        <p class="meta">전국부동산계산기 · 2026.10.21 · 수정 2026.11.28 · 참고용 설명이며 금융·세무·법률 자문이 아닙니다</p>
       </section>
       <section class="keynums" aria-label="핵심 숫자"><div class="kn-grid"><div class="kn"><p class="v">3억 1,500만원</p><p class="k">전세 3억원의 갱신 상한(5%)</p></div><div class="kn"><p class="v">월 6만 2,500원</p><p class="k">보증금 3억원에 붙일 수 있는 월세 상한</p></div><div class="kn"><p class="v">5%</p><p class="k">갱신 때 환산 보증금 인상 상한</p></div></div>
         <a class="kn-cta" href="renewal.html">계약갱신 계산기 열기 →</a>
@@ -117,7 +117,7 @@
       <section class="card">
         <div class="prose">
 <p>계약갱신요구권으로 갱신할 때 집주인이 올릴 수 있는 폭은 5%까지입니다. 그런데 '보증금은 그대로 두고 월세를 붙이자'거나 '보증금을 낮추고 월세를 올리자'처럼 조건을 섞어 바꾸면 5%를 어떻게 따져야 할지 헷갈립니다. 방법은 하나입니다. <strong>모두 보증금으로 환산해서 비교</strong>합니다.</p>
-<p>환산 보증금 = 보증금 + 월세 × 12 ÷ 전환율. 전환율은 기준금리 + 2%포인트(최대 10%)이고, 지금 기준금리 3.00%(2026년 8월 27일 결정)에서는 5%입니다. 아래 예시는 모두 기준금리 3.00%, 전환율 5% 기준으로 <a href='renewal.html'>계약갱신 계산기</a>에 넣은 결과입니다.</p>
+<p>환산 보증금 = 보증금 + 월세 × 12 ÷ 전환율. 전환율은 기준금리 + 2%포인트(최대 10%)이고, 지금 기준금리 3.25%(2026년 11월 26일 결정)에서는 5.25%입니다. 아래 예시는 모두 기준금리 3.00%, 전환율 5% 기준으로 <a href='renewal.html'>계약갱신 계산기</a>에 넣은 결과입니다.</p>
 <h2 id="s-1">전세 3억원에 월세를 붙이자고 하면</h2>
 <p>전세 3억원의 갱신 상한은 3억 1,500만원입니다. 보증금만 올린다면 1,500만원까지입니다. 보증금 3억원을 그대로 두고 월세를 붙인다면 월 6만 2,500원까지입니다. 이때 환산 보증금이 3억 + 6만 2,500원 × 12 ÷ 5% = 3억 1,500만원으로 상한과 같아집니다. 월세 10만원이면 환산 3억 2,400만원으로 상한을 900만원 넘습니다.</p>
 <h2 id="s-2">보증금 2억원·월세 50만원 계약이라면</h2>

diff --git a/conversion.html b/conversion.html
@@ -21,14 +21,14 @@
   <meta property="og:title" content="전월세 전환율 계산기 — 법정 전환율로 전세·월세 환산">
   <meta property="og:description" content="전월세 전환율 계산기. 한국은행 기준금리에 2%p를 더한 법정 전환율로 전세를 월세로, 월세를 전세로 환산합니다. 시장 전환율과 나란히 비교하고 계약 갱신 시 상한을 확인하세요.">
   <meta property="og:url" content="https://xn--989anm2s84p8on6teba611m.com/conversion.html">
-  <meta property="og:image" content="https://xn--989anm2s84p8on6teba611m.com/og/conversion.jpg?v=8a40ceab">
+  <meta property="og:image" content="https://xn--989anm2s84p8on6teba611m.com/og/conversion.jpg?v=ab31726d">
   <meta property="og:image:width" content="1200">
   <meta property="og:image:height" content="630">
-  <meta property="og:image:alt" content="전세 3억을 보증금 1억으로 낮추면(전환율 5%) 월세 83만 3,333원">
+  <meta property="og:image:alt" content="전세 3억을 보증금 1억으로 낮추면(전환율 5.25%) 월세 87만 5,000원">
   <meta name="twitter:card" content="summary_large_image">
   <meta name="twitter:title" content="전월세 전환율 계산기 — 법정 전환율로 전세·월세 환산">
   <meta name="twitter:description" content="전월세 전환율 계산기. 한국은행 기준금리에 2%p를 더한 법정 전환율로 전세를 월세로, 월세를 전세로 환산합니다. 시장 전환율과 나란히 비교하고 계약 갱신 시 상한을 확인하세요.">
-  <meta name="twitter:image" content="https://xn--989anm2s84p8on6teba611m.com/og/conversion.jpg?v=8a40ceab">
+  <meta name="twitter:image" content="https://xn--989anm2s84p8on6teba611m.com/og/conversion.jpg?v=ab31726d">
   <script type="application/ld+json">
 {
   "@context": "https://schema.org",
@@ -180,7 +180,7 @@
               <div class="grid-2">
               <div class="field">
                 <label for="baseRate">한국은행 기준금리</label>
-                <div class="input-wrap"><input id="baseRate" type="number" inputmode="decimal" step="0.05" min="0" value="3.00"><span class="suffix">%</span></div>
+                <div class="input-wrap"><input id="baseRate" type="number" inputmode="decimal" step="0.05" min="0" value="3.25"><span class="suffix">%</span></div>
                 <p class="field-help">법정 상한 = 기준금리 + 2%p (최대 10%). 갱신하거나 계약 중에 전세→월세로 바꿀 때만 적용되는 상한이고, 신규 계약에는 강제되지 않습니다.</p>
               </div>
               <div class="field">
@@ -303,6 +303,6 @@
   <div id="toast" class="toast" role="status" aria-live="polite"></div>
   <script src="js/common.js?v=6a725983"></script>
   <script src="js/analytics.js?v=c8407f74"></script>
-  <script src="js/conversion.js?v=34c85c8d"></script>
+  <script src="js/conversion.js?v=ae12cb14"></script>
 </body>
 </html>

diff --git a/index.html b/index.html
@@ -87,7 +87,7 @@
     </div>
     <section class="facts-sec" aria-labelledby="facts-title">
       <div class="sec-head"><h2 id="facts-title">지금 적용 중인 기준</h2><span class="n">바뀌면 계산기와 함께 고칩니다</span></div>
-      <div class="facts"><a class="fact" href="base-rate-history.html"><span class="k">기준금리</span><span class="v">3.00%</span><span class="s">2026년 8월 27일 결정</span></a><a class="fact" href="conversion.html"><span class="k">전월세 전환율 상한</span><span class="v">5%</span><span class="s">기준금리 + 2%p</span></a><a class="fact" href="hourly-wage.html"><span class="k">2026년 최저임금</span><span class="v">10,320원</span><span class="s">2027년 10,700원</span></a><a class="fact" href="salary.html"><span class="k">국민연금 보험료율</span><span class="v">9.5%</span><span class="s">근로자 부담 4.75%</span></a></div>
+      <div class="facts"><a class="fact" href="base-rate-history.html"><span class="k">기준금리</span><span class="v">3.25%</span><span class="s">2026년 11월 26일 결정</span></a><a class="fact" href="conversion.html"><span class="k">전월세 전환율 상한</span><span class="v">5.25%</span><span class="s">기준금리 + 2%p</span></a><a class="fact" href="hourly-wage.html"><span class="k">2026년 최저임금</span><span class="v">10,320원</span><span class="s">2027년 10,700원</span></a><a class="fact" href="salary.html"><span class="k">국민연금 보험료율</span><span class="v">9.5%</span><span class="s">근로자 부담 4.75%</span></a></div>
     </section>
     <section class="sec fav-sec" id="fav-sec" hidden>
       <div class="sec-head"><h2>즐겨찾기</h2><span class="n">이 기기에만 저장</span></div>

diff --git a/renewal.html b/renewal.html
@@ -181,7 +181,7 @@
                 <p class="field-help">전세면 0</p>
               </div>              <div class="field">
                 <label for="baseRate">한국은행 기준금리</label>
-                <div class="input-wrap"><input id="baseRate" type="number" inputmode="decimal" step="0.05" min="0" value="3.00"><span class="suffix">%</span></div>
+                <div class="input-wrap"><input id="baseRate" type="number" inputmode="decimal" step="0.05" min="0" value="3.25"><span class="suffix">%</span></div>
                 <p class="field-help">보증금↔월세 전환 시 상한 계산에 사용. 전환율 = 기준금리 + 2%p (상한 10%)</p>
               </div>            <div class="field" style="margin-top:14px">
               <label class="toggle"><input type="checkbox" id="remember-toggle"><span class="knob" aria-hidden="true"></span>최근 계산 기억하기</label>
@@ -306,6 +306,6 @@
   <div id="toast" class="toast" role="status" aria-live="polite"></div>
   <script src="js/common.js?v=6a725983"></script>
   <script src="js/analytics.js?v=c8407f74"></script>
-  <script src="js/renewal.js?v=3038fa7c"></script>
+  <script src="js/renewal.js?v=490cc2ee"></script>
 </body>
 </html>

diff --git a/tools/verify.js b/tools/verify.js
@@ -168,6 +168,7 @@ function near(label, got, want, tol) {
   expect('갱신 상태', await get('out-status'), '가능'); expect('갱신 만기', await get('out-end'), '2027-03-01');
   expect('갱신 시작', await get('out-wstart'), '2026-09-01'); expect('갱신 마감', await get('out-wend'), '2026-12-31');
   expect('갱신 D-day', await get('out-big'), dday(2026, 12, 31));
+  await page.fill('#baseRate', '3');   // term-gaesinyogugwon.html은 「기준금리 3%면」으로 적은 예시. 기본값(지금 기준금리)이 바뀌어도 그 금리로 대조한다(2026-11-26 인상)
   expect('보증금 5%', await get('out-dep-cap'), '52,500,000'); expect('월세 5%', await get('out-rent-cap'), '630,000'); expect('환산 상한', await get('out-equiv-cap'), '203,700,000');
   expect('환산 보증금', await get('out-equiv'), '194,000,000');   // term-gaesinyogugwon.html
   expect('묵시적 갱신 해지 효력일', await get('out-terminate'), '2026-12-21');   // term-muksijeokgaesin.html (시계 9/21 + 3개월)

diff --git a/js/conversion.js b/js/conversion.js
@@ -4,8 +4,8 @@
   var S = window.Site, $ = S.$;
 
   // ---- 상수 (기준일 표시. 기준금리는 한국은행 발표 시 갱신) ----
-  var BASE_RATE_DEFAULT = 3.00;      // 한국은행 기준금리 (%) — 화면에서 수정 가능
-  var BASE_RATE_DATE = '2026년 8월 27일 결정';
+  var BASE_RATE_DEFAULT = 3.25;      // 한국은행 기준금리 (%) — 화면에서 수정 가능
+  var BASE_RATE_DATE = '2026년 11월 26일 결정';
   var LEGAL_SPREAD = 2.0;            // 주택임대차보호법 시행령: 기준금리 + 2%p
   var LEGAL_CAP = 10.0;              // 연 10% 상한
   var MARKET_RATE_DEFAULT = 5.5;     // 시장 전환율 예시 (%) — 참고용

diff --git a/js/renewal.js b/js/renewal.js
@@ -12,7 +12,7 @@
   var WINDOW_CUTOFF = '2020-12-10';
   var RAISE_CAP = 5;             // 갱신 시 증액 상한 %
   var DEFAULT_MONTHS = 24;       // 기본 계약 기간
-  var BASE_RATE_DEFAULT = 3.00, CONV_ADD = 2.0, CONV_CAP = 10; // 법정 전환율 = 기준금리 + 2%p (상한 10%)
+  var BASE_RATE_DEFAULT = 3.25, CONV_ADD = 2.0, CONV_CAP = 10; // 법정 전환율 = 기준금리 + 2%p (상한 10%)
   var TENANT_TERMINATE_MONTHS = 3; // 묵시적 갱신 후 임차인 해지 통지 → 3개월 뒤 효력
 
   function readInput() {

diff --git a/tools/build/site_core.py b/tools/build/site_core.py
@@ -515,7 +515,7 @@ def extra_groups():
 
 # ---------------- 한국은행 기준금리 (단일 출처) ----------------
 # 이력표 페이지, 전환율·갱신 계산기 기본값, js 상수(build.py가 주입)가 전부 여기서 나온다.
-RATE_HISTORY_CHECKED = "2026년 10월"   # 금통위 결과를 확인한 달. 동결이어도 바꾼다(확인 기준으로 화면에 나옴)
+RATE_HISTORY_CHECKED = "2026년 11월"   # 금통위 결과를 확인한 달. 동결이어도 바꾼다(확인 기준으로 화면에 나옴)
 RATE_HISTORY = [  # (결정일, 금리)
     ("2008-10-09", 5.00), ("2008-10-27", 4.25), ("2008-11-07", 4.00), ("2008-12-11", 3.00), ("2009-01-09", 2.50), ("2009-02-12", 2.00),
     ("2010-07-09", 2.25), ("2010-11-16", 2.50), ("2011-01-13", 2.75), ("2011-03-10", 3.00), ("2011-06-10", 3.25),
@@ -523,10 +523,19 @@ RATE_HISTORY = [  # (결정일, 금리)
     ("2015-03-12", 1.75), ("2015-06-11", 1.50), ("2016-06-09", 1.25), ("2017-11-30", 1.50), ("2018-11-30", 1.75),
     ("2019-07-18", 1.50), ("2019-10-16", 1.25), ("2020-03-17", 0.75), ("2020-05-28", 0.50),
     ("2021-08-26", 0.75), ("2021-11-25", 1.00), ("2022-01-14", 1.25), ("2022-04-14", 1.50), ("2022-05-26", 1.75), ("2022-07-13", 2.25), ("2022-08-25", 2.50), ("2022-10-12", 3.00), ("2022-11-24", 3.25),
-    ("2023-01-13", 3.50), ("2024-10-11", 3.25), ("2024-11-28", 3.00), ("2025-02-25", 2.75), ("2025-05-29", 2.50), ("2026-07-16", 2.75), ("2026-08-27", 3.00),
+    ("2023-01-13", 3.50), ("2024-10-11", 3.25), ("2024-11-28", 3.00), ("2025-02-25", 2.75), ("2025-05-29", 2.50), ("2026-07-16", 2.75), ("2026-08-27", 3.00), ("2026-11-26", 3.25),
 ]
 BASE_RATE = RATE_HISTORY[-1][1]                       # 현재 기준금리 %
 BASE_RATE_DATE = RATE_HISTORY[-1][0]                  # 마지막 결정일
+def man_won(n):
+    """875000 → '87만 5,000원' (안내 글·공유 카드에 기준금리로 계산해 넣는 금액 표기)"""
+    n = int(round(n)); man, rest = divmod(n, 10000)
+    return (f"{man:,}만 {rest:,}원" if rest else f"{man:,}만원") if man else f"{rest:,}원"
+
+def conv_monthly(base_rate, deposit=200000000):
+    """보증금을 법정 상한 전환율(기준금리 + 2%p, 최대 10%)로 월세로 바꾼 금액. 전월세 전환율 계산기와 같은 반올림"""
+    return round(deposit * min(base_rate + 2, 10) / 100 / 12)
+
 BASE_RATE_LABEL = BASE_RATE_DATE[:4] + '년 ' + str(int(BASE_RATE_DATE[5:7])) + '월 ' + str(int(BASE_RATE_DATE[8:10])) + '일 결정'
 
 # ---------------- 공통 조각 ----------------
